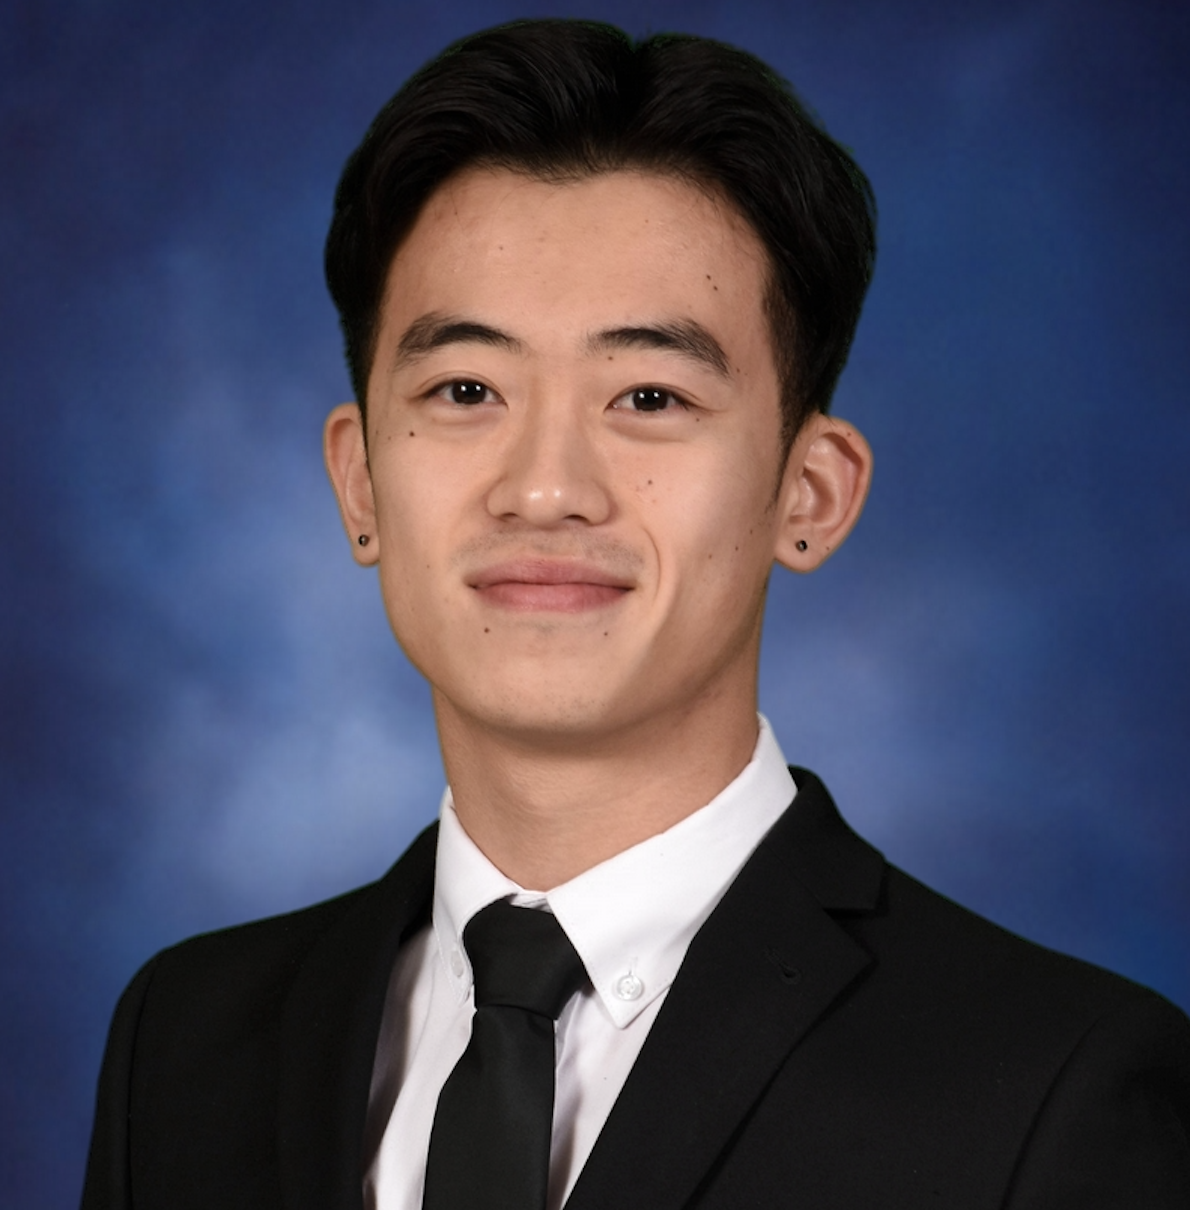
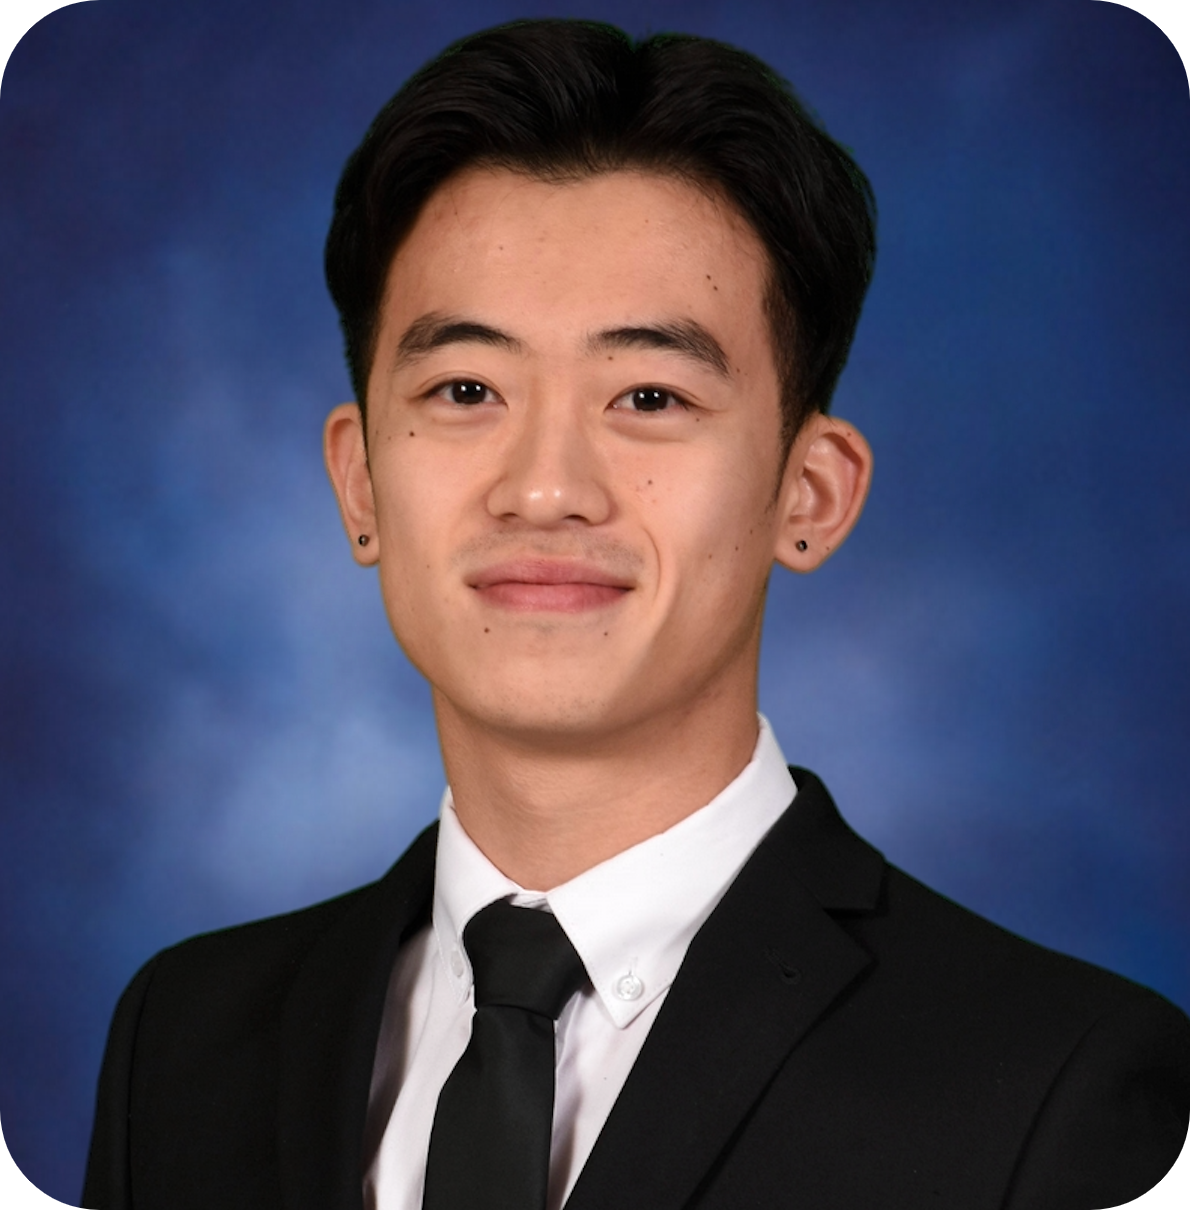
update pic

diff --git a/_layouts/default.html b/_layouts/default.html
@@ -34,7 +34,7 @@
               <h1>
                 Samuel Li
               </h1>
-              <p>I am a M.S. in Robotics student at Carnegie Mellon University advised by <a href="https://en.wikipedia.org/wiki/Katia_Sycara"> Prof. Katia Sycara</a>. I recieved my B.S. in Mathematics & Computer Science from University of Illinois Urbana-Champaign, where I worked on computer vision for healthcare with <a href="https://yxw.web.illinois.edu/"> Prof. Yuxiong Wang</a> and machine learning for climate and energy demand prediction with <a href="https://atmos.illinois.edu/directory/profile/rsriver"> Prof. Ryan Sriver</a>.
+              <p>I am a M.S. in Robotics student at Carnegie Mellon University advised by <a href="https://en.wikipedia.org/wiki/Katia_Sycara"> Prof. Katia Sycara</a>. I recieved my B.S. in Mathematics & Computer Science from University of Illinois Urbana-Champaign, where I worked on computer vision for healthcare with <a href="https://yxw.web.illinois.edu/"> Prof. Yuxiong Wang</a> and machine learning for climate prediction with <a href="https://atmos.illinois.edu/directory/profile/rsriver"> Prof. Ryan Sriver</a>.
               </p>
               <p>I am interested in robotics, computer vision, and machine learning. Outside of research and classes, I like to play tennis, cook, and spend time with my dog and cat.
               </p>
